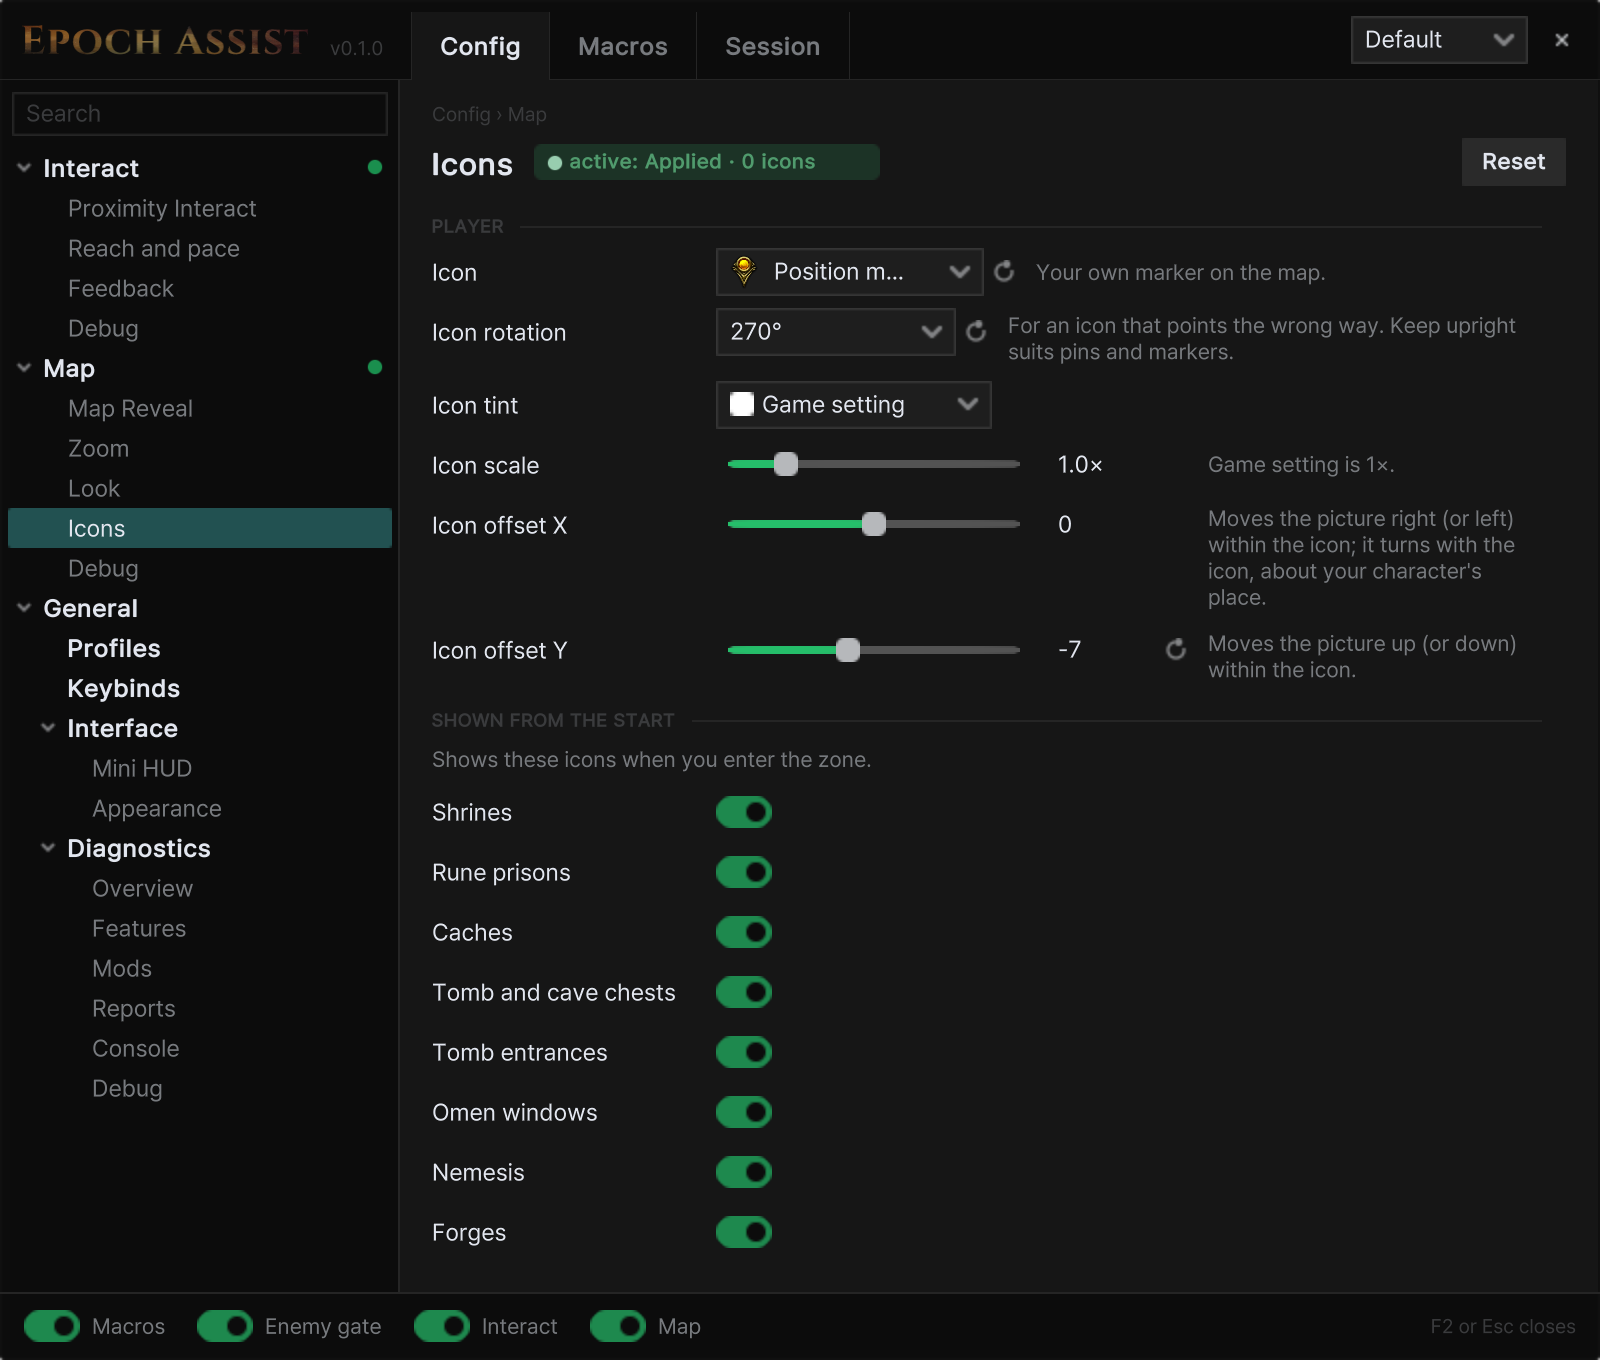
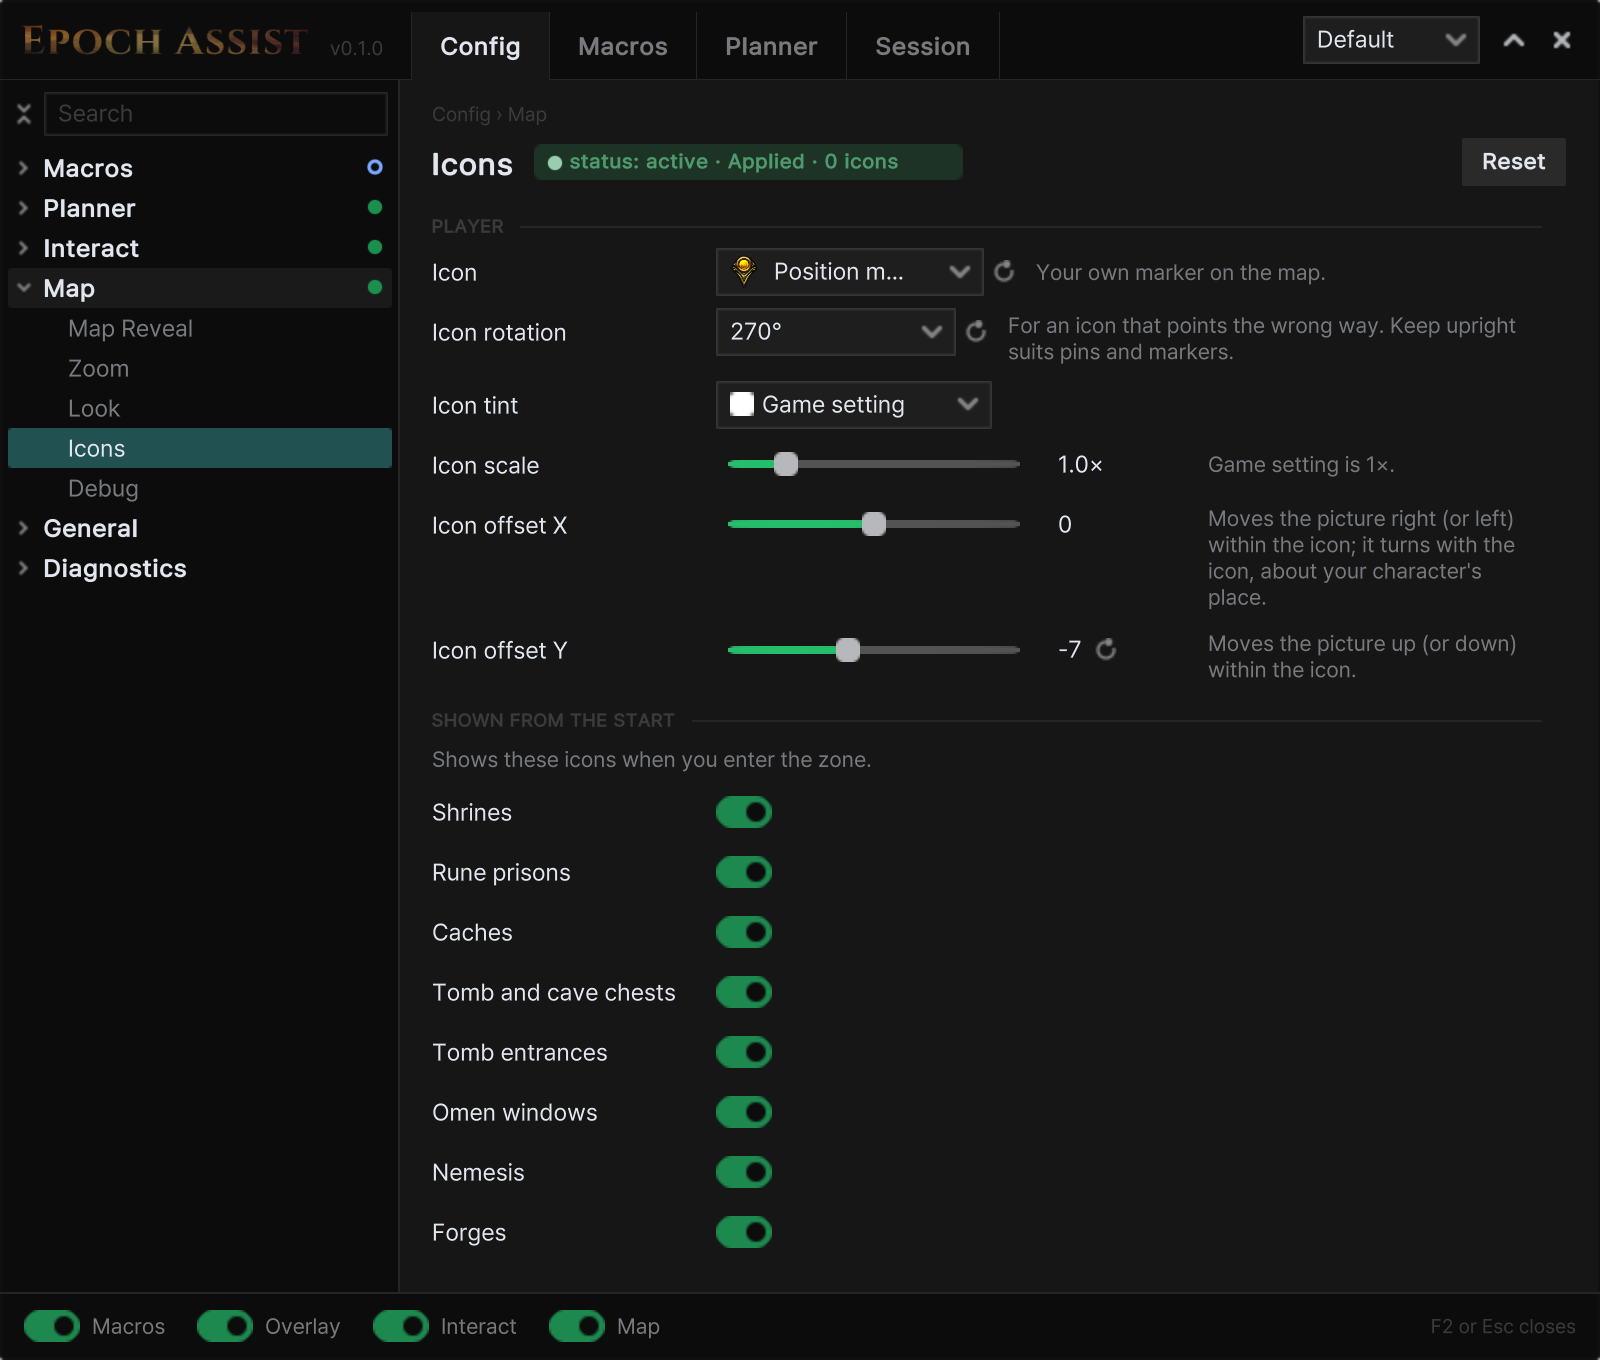
docs(nexus): screenshots show current menu, mini HUD and planner marks

diff --git a/nexus/media/README.md b/nexus/media/README.md
@@ -18,24 +18,38 @@ for visitors while the repository is public.
 
 Take them in a dev build, offline, in the default look (Carbonfox, every accent on Theme, Pretendard Regular), with no
 character or account name visible, at UI scale 2 (`set UiScale 2` first, `set UiScale 1.25` after, the default): the text is drawn at that size, so the images stay sharp when GitHub or Nexus scales them
-down, where a 1x capture blurs when scaled up. `matte` gives the menu or HUD a transparent background, trimmed to what
-is drawn (`tools/shot.sh …`; shots land in `UserData/EpochAssist/dev/shots/`):
+down, where a 1x capture blurs when scaled up. `matte` gives the menu, the HUD or game UI a transparent background,
+trimmed to what is drawn; `shot ui <name>` crops to one game window or tooltip, frame included (`tools/shot.sh …`;
+shots land in `UserData/EpochAssist/dev/shots/`).
 
-| Name | Shows | Take it with |
-|---|---|---|
-| `logo` | The nebula wordmark, the page's title (not a screenshot) | a copy of `src/Ui/Theme/Assets/logo-wordmark@4x.png` |
-| `macros` | Macros › Library with Slots, Potions and a filled-out example set (made for the shot, removed after; slots 1 and 5 ticked) | `menu open macros/library/library`, `wait 90`, `shot menu macros matte` |
-| `macro-editor` | One macro's editor with an all-of tree, a nested any-of group and live values, and its cast step open on its Target rows with a live pick (near a pack; scrolled to the bottom, then one notch up) | `macro edit <set>/<macro>`, `wait 90`, `shot menu macro-editor matte` |
-| `shared-target` | Macros › Library › Slots › Shared Conditions: the enemy gate and the Shared target, set for the shot to the rarest enemy within 15 m (near a pack so its live pick shows; put back after) | `set SlotTargets {"v":1,"shared":{"pick":"rarest","range":15,"else":"cursor"}}`, `macro edit slots/every`, `wait 40`, `shot menu shared-target matte`, `set SlotTargets {"v":1}` |
-| `hud` | The mini HUD with its quick toggles open (slots 1 and 3 ticked for the shot) | `run macros.slot.1`, `run macros.slot.3`, `hud panel open`, `wait 30`, `shot hud hud matte`, `hud panel close`, the two slots off again |
-| `profiles` | Config › General › Profiles | `menu open combat/general/profiles`, `wait 90`, `shot menu profiles matte` |
-| `appearance` | Config › General › Interface › Appearance | `menu open combat/general/interface/appearance`, `wait 90`, `shot menu appearance matte` |
-| `diagnostics` | Config › General › Diagnostics › Overview, offline (the summary names the mode; a dev build's says "dev build"; take it a while after a reload, whose hitch shows as the worst frame time; an unfocused game runs few frames a second, so the wait takes longer) | `menu open combat/general/diagnostics/overview`, `wait 900`, `shot menu diagnostics matte` |
-| `settings-hud` | Config › General › Interface › Mini HUD, second image under Mini HUD (the HUD preview pokes 4 px past the menu's left and top edges; trim the image to the menu's 1600 × 1360) | `menu open combat/general/interface/mini-hud`, `wait 90`, `shot menu settings-hud matte` |
-| `interact` | Config › Interact › Proximity Interact, every kind on | `menu open combat/interact/proximity-interact`, `wait 90`, `shot menu interact matte` |
-| `map-overlay` | The overlay map in an echo with Map Reveal on (Slate look, thick outline, icons shown), menu closed, cropped to the map with a margin of the world and none of the game's UI | a screenshot with Tab open in an echo, cropped to the map |
-| `map-look` | Config › Map › Look, the Slate style | `menu open combat/map/look`, `wait 90`, `shot menu map-look matte` |
-| `map-icons` | Config › Map › Icons, a player icon picked | `menu open combat/map/icons`, `wait 90`, `shot menu map-icons matte` |
+Every feature's images stay in its spoiler; only the lead image shows in place. At most three images per feature, best
+first: the feature at work in the game before its settings pages. Status: **new** not taken yet, **retake** taken
+before the menu's 2026-10-27 changes (nested Config tree, tree and fold buttons, footer switches, "status: off" tags),
+**later** waits for unfinished work, **current** up to date. Menu routes match by prefix; `menu open` says when one
+doesn't. The mini HUD stays up with the menu open and overlaps its top-left corner: `set HudEnabled false` for menu shots
+(`true` after). For a Config page, fold the tree with the button beside search and open only the page's own section, so
+the page shows highlighted.
 
-A dev build lists a Dev section in the Config tree; players don't have it: `menu devpages off` hides it for the shots (`menu devpages on` after). Not shipped in the zip. The Nexus gallery images and the page header and banner (`../banner-1300x372.png`,
+| Name | Status | Shows | Take it with |
+|---|---|---|---|
+| `logo` | current | The nebula wordmark, the page's title (not a screenshot) | a copy of `src/Ui/Theme/Assets/logo-wordmark@4x.png` |
+| `macros` | retake | Macros › Library with Slots, Potions and a filled-out example set (made for the shot, removed after; slots 1 and 5 ticked) | `menu open macros/library`, `wait 90`, `shot menu macros matte` |
+| `macro-editor` | retake | One macro's editor with an all-of tree, a nested any-of group and live values, and its cast step open on its Target rows with a live pick (near a pack; scrolled to the bottom, then one notch up) | `macro edit <set>/<macro>`, `wait 90`, `shot menu macro-editor matte` |
+| `enemy-gate` | new | Config › Macros › Enemies: gate on, range and weight sliders, the Now readout and enemy weights (near a pack so Now counts); replaces `shared-target`, whose page no longer sets the gate | `menu open combat/macros/enemies`, `wait 90`, `shot menu enemy-gate matte` |
+| `hud` | current | The mini HUD with its quick toggles open (slots 1 and 3 ticked for the shot) | `run macros.slot.1`, `run macros.slot.3`, `hud panel open`, `wait 30`, `shot hud hud matte`, `hud panel close`, the two slots off again |
+| `planner-passives` | current | The passive tree on a mastery tab where the build shows every mark state: matches, partial with the next point labelled, to place, not in build (Marksman tab of the Shadow Cascade Rogue, stage 1) | `planner open passive`, `wait 60`, `planner tab <n>`, `wait 40`, `shot ui PassiveTree2021 planner-passives matte`, `planner open close` |
+| `planner-skills` | current | One skill's tree with the build's marks, a skill the stage has part-spent (Shift) | `planner open tree <slot>`, `wait 60`, `shot ui "Skills Panel" planner-skills matte`, `planner open close` |
+| `planner-tab` | current | Planner › Library with the build in use opened: stage ◀ ▶, skill bar, checklist with done out of planned and next steps (select the build, then Open) | `menu open planner/library`, `wait 90`, the build's row, Open, `shot menu planner-tab matte` |
+| `planner-gear` | later | The inventory with planned item icons and one planned item's game tooltip, once planner gear lands | `shot ui tooltip planner-gear matte` with the icon hovered, or the inventory window for the icons |
+| `profiles` | current | Config › General › Profiles | `menu open combat/general/profiles`, `wait 90`, `shot menu profiles matte` |
+| `appearance` | current | Config › General › Appearance | `menu open combat/general/appearance`, `wait 90`, `shot menu appearance matte` |
+| `diagnostics` | current | Config › Diagnostics › Overview, offline (the summary names the mode; a dev build's says "dev build"; take it a while after a reload, whose hitch shows as the worst frame time; an unfocused game runs few frames a second, so the wait takes longer) | `menu open combat/diagnostics/overview`, `wait 900`, `shot menu diagnostics matte` |
+| `settings-hud` | current | Config › General › Mini HUD, second image under Mini HUD (the mini HUD shows the switch on: drag the menu clear of the HUD instead of hiding it) | `menu open combat/general/mini-hud`, `wait 90`, `shot menu settings-hud matte` |
+| `interact` | current | Config › Interact › Proximity Interact, every kind on | `menu open combat/interact/proximity-interact`, `wait 90`, `shot menu interact matte` |
+| `interact-world` | new | In an echo: reach rings around a shrine and loot, the mini HUD's in-reach count; first image under Proximity Interact | `shot full interact-world`, cropped to the rings and the HUD |
+| `map-overlay` | current | The overlay map in an echo with Map Reveal on (Slate look, thick outline, icons shown), menu closed, cropped to the map with a margin of the world and none of the game's UI | a screenshot with Tab open in an echo, cropped to the map |
+| `map-look` | current | Config › Map › Look, the Slate style | `menu open combat/map/look`, `wait 90`, `shot menu map-look matte` |
+| `map-icons` | current | Config › Map › Icons, a player icon picked | `menu open combat/map/icons`, `wait 90`, `shot menu map-icons matte` |
+
+`shared-target.png` goes when `enemy-gate` replaces it. A dev build lists a Dev section in the Config tree; players don't have it: `menu devpages off` hides it for the shots (`menu devpages on` after). Not shipped in the zip. The Nexus gallery images and the page header and banner (`../banner-1300x372.png`,
 `../header-1920x1080.png`) are uploaded by hand.
